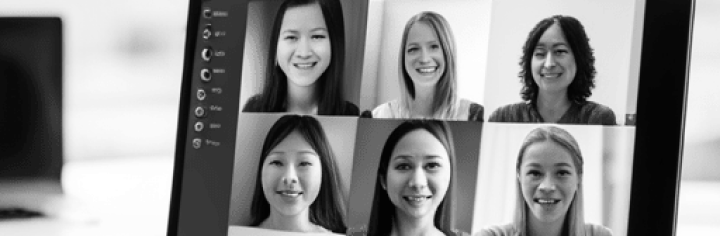
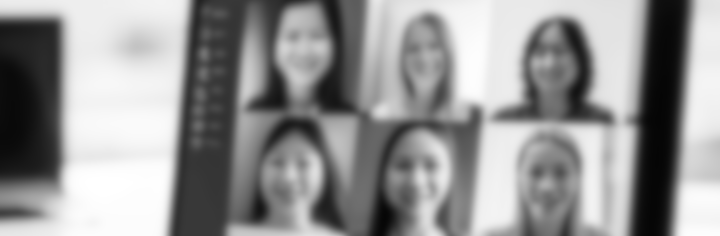
volunteer: simplify page (#122)
- Hide sections of text on a <details>
- Fuzzy AI generated header file (the faces were strange)

Changed region(s): [[0.2139, 0.0, 0.9778, 1.0], [0.0, 0.0593, 0.0917, 0.8008], [0.0, 0.8602, 0.0611, 0.9492]]

diff --git a/content/volunteer/_index.md b/content/volunteer/_index.md
@@ -51,8 +51,8 @@ others the opportunity to volunteer.
 
 Communications Chair: Denny Perez
 
-- Schedule Reminders Regarding Conference Milestones
-
+{{< togglebutton "schedule-reminders" "Schedule Reminders Regarding Conference Milestones">}}
+{{% togglebutton-content "schedule-reminders" %}}
   The Communications Committee is responsible for ensuring effective
   communication regarding conference milestones. They work closely with the
   conference organizers and other committees to establish a timeline and
@@ -61,9 +61,10 @@ Communications Chair: Denny Perez
   community. These reminders may be in emails, or newsletters, and should
   effectively convey essential dates, deadlines, and updates related to the
   conference.
+{{% /togglebutton-content %}}
 
-- Prepare Slides for Different Events
-
+{{< togglebutton "prepare-slides" "Prepare Slides for Different Events">}}
+{{% togglebutton-content "prepare-slides" %}}
   The Communications Committee collaborates with the marketing or outreach team
   to create visually appealing slides or presentation materials for different
   events associated with the conference. These events may include community
@@ -72,9 +73,10 @@ Communications Chair: Denny Perez
   such as its objectives, featured speakers, agenda highlights, and registration
   details. The prepared slides help to generate interest and engagement among the
   target audience.
+{{% /togglebutton-content %}}
 
-- Create Calendar for Publications
-
+{{< togglebutton "create-calendar" "Create Calendar for Publications">}}
+{{% togglebutton-content "create-calendar" %}}
   The Communications Committee collaborates with the marketing or content team to
   create a calendar for conference-related publications. This calendar serves as
   a guide for determining the timing and frequency of content releases, such as
@@ -84,6 +86,7 @@ Communications Chair: Denny Perez
   channels. They work closely with other teams to ensure the content aligns with
   the conference objectives and is consistently disseminated to the target
   audience.
+{{% /togglebutton-content %}}
 
 The Communications Committee's role is to facilitate effective communication
 and promotion of the PyLadies Con conference. By scheduling reminders,
@@ -115,15 +118,16 @@ flyers, brochures, infographics, or posters. The materials should be visually
 appealing, informative, and engaging to attract the target audience and
 effectively convey the conference's message and value.
 
-- Tools to Simplify Diffusion
-
+{{< togglebutton "tools-diffusion" "Tools to Simplify Diffusion">}}
+{{% togglebutton-content "tools-diffusion" %}}
   The Design & Social Media team uses various tools and software to simplify the
   diffusion of conference-related content through social media platforms. They
   evaluate and select tools that facilitate scheduling, monitoring, and analyzing
   social media posts. These tools may include social media management platforms,
   content scheduling tools, analytics tools, or other relevant applications. The
-   committee ensures that these tools streamline the process, save time, and
+  committee ensures that these tools streamline the process, save time, and
   enhance the effectiveness of social media diffusion efforts.
+{{% /togglebutton-content %}}
 
 Overall, the Design & Social Media team plays the role in visually representing
 and promoting the conference through various channels. Their responsibilities
@@ -145,59 +149,65 @@ aspects of the PyLadies Con conference, including securing sponsorships,
 defining the budget, managing finances, and coordinating sponsor-related
 activities. Their role encompasses the following tasks:
 
-- Sponsors Contacts
-
+{{< togglebutton "sponsors-contacts" "Sponsors Contacts">}}
+{{% togglebutton-content "sponsors-contacts" %}}
   The Financing and Sponsorship team identifies and establishes contact with
   potential sponsors for the conference. They research and compile a list of
   companies, organizations, or individuals who may be interested in sponsoring
   the event. The team reaches out to these potential sponsors, communicates the
   benefits of sponsorship, and maintains ongoing relationships with sponsors
   throughout the conference planning and execution.
+{{% /togglebutton-content %}}
 
-- List of Possible Sponsors
-
+{{< togglebutton "possible-sponsors" "List of Possible Sponsors">}}
+{{% togglebutton-content "possible-sponsors" %}}
   The team creates and maintains a comprehensive list of potential sponsors for
   the PyLadies Con conference. They conduct market research and identify
   organizations or individuals that align with the conference's objectives,
   values, and target audience. The team ensures that the list is regularly
   updated and prioritizes potential sponsors based on their relevance and ability
   to contribute to the conference's financial goals.
+{{% /togglebutton-content %}}
 
-- Define Budget
-
+{{< togglebutton "define-budget" "Define Budget">}}
+{{% togglebutton-content "define-budget" %}}
   The Financing and Sponsorship team works closely with the conference organizers
   and relevant stakeholders to define the conference budget. They consider
   various factors, such as venue costs, speaker fees, marketing expenses, and
   logistical requirements. The team ensures that the budget is realistic, aligns
   with the conference's goals, and accounts for potential sponsor contributions
   and other sources of revenue.
+{{% /togglebutton-content %}}
 
-- Platforms
-
+{{< togglebutton "platforms" "Platforms">}}
+{{% togglebutton-content "platforms" %}}
   The team identifies and utilizes appropriate platforms to attract sponsors and
   showcase sponsorship opportunities. This may include the conference website,
   social media channels, industry-specific platforms, or direct outreach to
   potential sponsors. The team ensures that the sponsorship platforms effectively
   communicate the value of sponsorship, the benefits for sponsors, and the
   various sponsorship packages available.
+{{% /togglebutton-content %}}
 
-- Gift for Speakers/Volunteers
-
+{{< togglebutton "gifts" "Gift for Speakers/Volunteers">}}
+{{% togglebutton-content "gifts" %}}
   The Financing and Sponsorship team may be responsible for sourcing and
   coordinating presents or tokens of appreciation for conference speakers and
   volunteers. They identify suitable gifts or gestures that align with the
   conference's theme and budget. The team ensures that these presents are
   provided to speakers and volunteers as a gesture of gratitude for their
   contribution to the conference's success.
+{{% /togglebutton-content %}}
 
-- Finance Management
-
+{{< togglebutton "finance-management" "Finance Management">}}
+{{% togglebutton-content "finance-management" %}}
   The team manages the finances of the conference, including sponsor
   contributions, registration fees, and other revenue streams. They handle
   sponsor contracts, invoicing, and payments, ensuring that financial
   transactions are properly documented and recorded. The team works closely with
   the conference organizers and relevant stakeholders to track expenses, monitor
   the budget, and provide regular financial updates.
+{{% /togglebutton-content %}}
 
 The Financing and Sponsorship team plays a crucial role in securing
 sponsorships, managing finances, and coordinating sponsor-related activities
@@ -218,25 +228,27 @@ managing the technical aspects of the PyLadies Con conference, ensuring smooth
 operations and providing technical support to attendees. Their role encompasses
 the following tasks:
 
-- Platform for Streaming Management
-
+{{< togglebutton "platform-streaming" "Platform for Streaming Management">}}
+{{% togglebutton-content "platform-streaming" %}}
   The Tech/Infra Work Group selects and manages the platform used for streaming
   the conference sessions. They research and evaluate streaming platforms,
   considering factors such as ease of use, scalability, interactive features, and
   compatibility with the conference's requirements. The team sets up and
   configures the streaming platform, manages access controls, and ensures
   a seamless streaming experience for attendees.
+{{% /togglebutton-content %}}
 
-- Ticket Management
-
+{{< togglebutton "ticket-management" "Ticket Management">}}
+{{% togglebutton-content "ticket-management" %}}
   The team handles the ticketing system for PyLadies Con. They select and set up
   a ticket management platform or system that allows attendees to register for
   the conference, purchase tickets, and manage their registrations. The team
   ensures that the ticketing system is user-friendly, secure, and integrates with
   other conference platforms, such as the website and payment systems.
+{{% /togglebutton-content %}}
 
-- Chat Moderation
-
+{{< togglebutton "chat-moderation" "Chat Moderation">}}
+{{% togglebutton-content "chat-moderation" %}}
   The Chat Moderators, a part of the Tech/Infra Work Group, are responsible for
   moderating the chat or discussion platforms used during the conference. They
   monitor and facilitate conversations, ensure adherence to the conference's code
@@ -244,24 +256,27 @@ the following tasks:
   Moderators foster a respectful and inclusive environment for attendees,
   providing support, answering questions, and redirecting inquiries to the
   appropriate channels.
+{{% /togglebutton-content %}}
 
-- Technical Support
-
+{{< togglebutton "technical-support" "Technical Support">}}
+{{% togglebutton-content "technical-support" %}}
   The Tech/Infra Work Group provides technical support to attendees throughout
   the conference. They troubleshoot technical issues that attendees may encounter
   with the streaming platform, ticketing system, or other conference-related
   technologies. The team responds promptly to support inquiries, provides
   guidance and assistance, and escalates more complex issues to the appropriate
   resources if necessary.
+{{% /togglebutton-content %}}
 
-- Infrastructure Management
-
+{{< togglebutton "infra-management" "Infrastructure Management">}}
+{{% togglebutton-content "infra-management" %}}
   The team manages the overall infrastructure required for the conference, such
   as servers, networking, and connectivity. They ensure that the infrastructure
   is robust, reliable, and scalable to handle the expected traffic and demand
   during the event. The team also coordinates with vendors or service providers
   to address any infrastructure-related issues and maintain the necessary
   resources for a smooth conference experience.
+{{% /togglebutton-content %}}
 
 The Tech/Infra Work Group, including Chat Moderators, plays a crucial role in
 managing the technical aspects of PyLadies Con. Their responsibilities include
@@ -275,8 +290,8 @@ all participants.
 
 Program Committe Chair: Cheuk Ting Ho
 
-- CFP (Call for Proposals) and Talk Revision
-
+{{< togglebutton "cfp-revision" "CFP (Call for Proposals) and Talk Revision">}}
+{{% togglebutton-content "cfp-revision" %}}
   The Programs Committee is responsible for designing and managing the CFP
   process. This involves creating and promoting the CFP announcement, setting
   deadlines for proposal submissions, and coordinating the review and selection
@@ -284,31 +299,35 @@ Program Committe Chair: Cheuk Ting Ho
   proposals based on predefined criteria, such as relevance, quality, novelty,
   and diversity. If necessary, they should also provide feedback and guidance to
   speakers to refine and enhance their talk proposals.
+{{% /togglebutton-content %}}
 
-- The platform for CFP
-
+{{< togglebutton "platform-cfp" "The platform for CFP">}}
+{{% togglebutton-content "platform-cfp" %}}
   The Programs Committee should research and select a suitable platform or
   software to manage the CFP process efficiently. This platform should facilitate
   the submission, review, and selection of proposals and enable effective
   communication with the speakers.
+{{% /togglebutton-content %}}
 
-- Program Creation
-
+{{< togglebutton "program-creation" "Program Creation">}}
+{{% togglebutton-content "program-creation" %}}
   Once the talk proposals have been selected, the Programs Committee collaborates
   to create the conference program. They should consider various factors, such as
   the themes of the conference, the target audience, and the overall flow of the
   event. The committee should aim to create a balanced and engaging program that
   covers various topics and appeals to beginners and experienced Python
   developers.
+{{% /togglebutton-content %}}
 
-- Contact with Speakers
-
+{{< togglebutton "contact-speakers" "Contact with Speakers">}}
+{{% togglebutton-content "contact-speakers" %}}
   The Programs Committee serves as the main point of contact for the conference
   speakers. They should promptly communicate with speakers regarding the status
   of their proposals, acceptance notifications, and any additional information
   required for their participation in the conference. Committee members should
   also work closely with the speakers to ensure they have all the necessary
   resources and support leading up to the conference.
+{{% /togglebutton-content %}}
 
 Overall, the Programs Committee plays a pivotal role in shaping the content and
 success of the PyLadies Con conference. Through their efforts in defining the
@@ -323,8 +342,8 @@ within the PyLadies community.
 The Website Team is responsible for the design, development, and maintenance of
 the conference website. Their role encompasses the following tasks:
 
-- Design and Development of the Website
-
+{{< togglebutton "dev-website" "Design and Development of the Website">}}
+{{% togglebutton-content "dev-website" %}}
   The Website Team designs and develops the conference website, either from
   scratch or based on the designs provided by the designer or individuals in
   charge of design and style. They collaborate with these stakeholders to ensure
@@ -332,40 +351,45 @@ the conference website. Their role encompasses the following tasks:
   user experience goals. The team utilizes their technical skills to implement
   the design elements, create a visually appealing layout, and develop
   a functional and user-friendly website.
+{{% /togglebutton-content %}}
 
-- Content Updates
-
+{{< togglebutton "content-updates" "Content Updates">}}
+{{% togglebutton-content "content-updates" %}}
   The Website Team is responsible for updating the content of the website to
   reflect the current state of the conference. They ensure that all relevant
   information, such as session schedules, speaker profiles, registration details,
   and any announcements, are accurately presented on the website. The team
   regularly reviews and updates the content as the conference progresses, keeping
   it relevant and informative for attendees and visitors.
+{{% /togglebutton-content %}}
 
-- Development Based on Provided Designs
-
+{{< togglebutton "dev-designs" "Development Based on Provided Designs">}}
+{{% togglebutton-content "dev-designs" %}}
   If designs are provided by external designers or individuals responsible for
   design and style, the Website Team takes those designs and transforms them into
   a fully functional website. They use their technical expertise to interpret and
   implement the design elements, ensuring that the website accurately represents
   the provided designs. The team ensures that the website is responsive,
   accessible, and optimized for different devices and browsers.
+{{% /togglebutton-content %}}
 
-- Website Maintenance and Support
-
+{{< togglebutton "web-support" "Website Maintenance and Support">}}
+{{% togglebutton-content "web-support" %}}
   The Website Team is responsible for the ongoing maintenance and support of the
   conference website. They monitor the website's performance, resolve any
   technical issues or bugs that may arise, and ensure the website remains
   functional and secure. The team may also provide support to website users,
   addressing inquiries, and troubleshooting any user-related issues.
+{{% /togglebutton-content %}}
 
-- Collaboration with Other Teams
-
+{{< togglebutton "collab-teams" "Collaboration with Other Teams">}}
+{{% togglebutton-content "collab-teams" %}}
   The Website Team collaborates with other conference teams, such as the
   communications team, marketing team, and content team, to ensure that the
   website reflects the overall conference objectives and messaging. They work
   closely with these teams to incorporate their content, graphics, and
   promotional materials into the website effectively.
+{{% /togglebutton-content %}}
 
 
 Overall, the Website Team is critical in designing, developing, and maintaining
